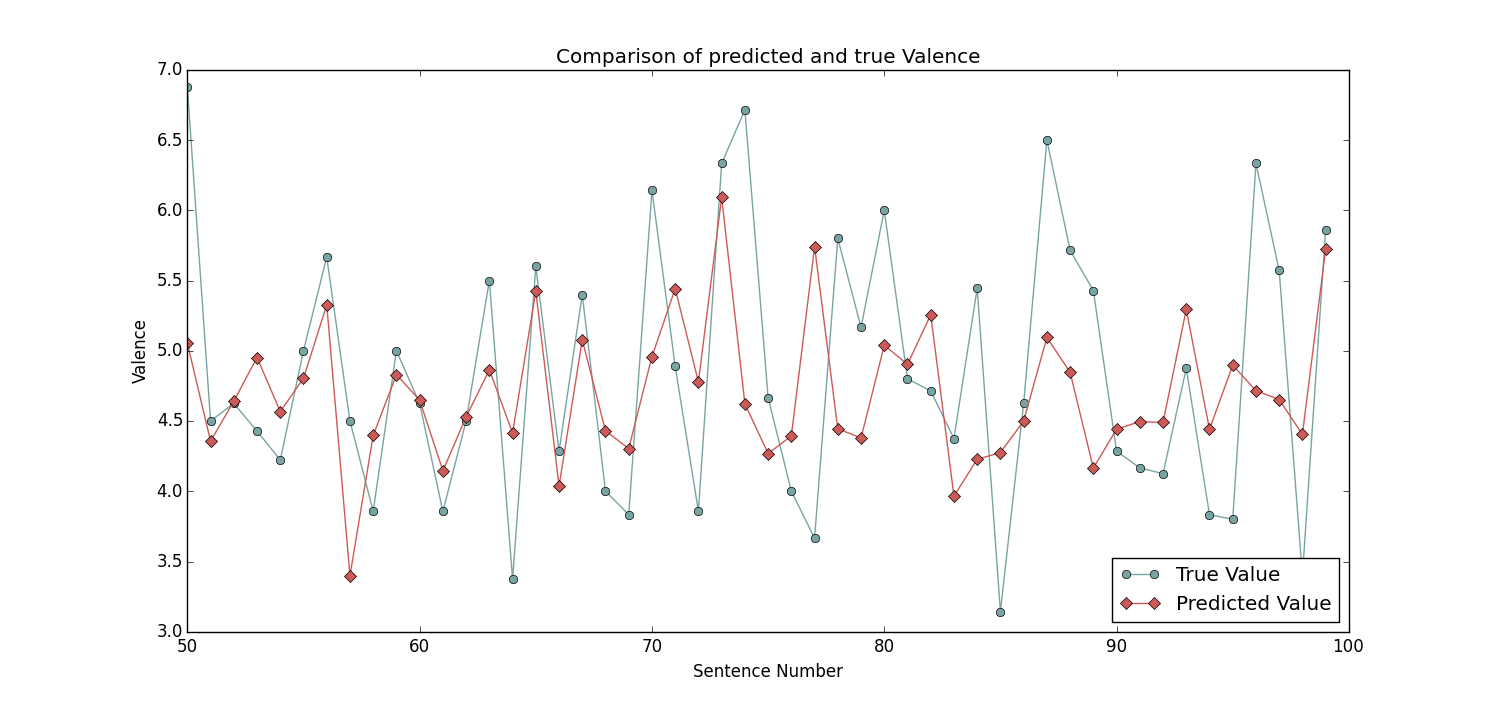
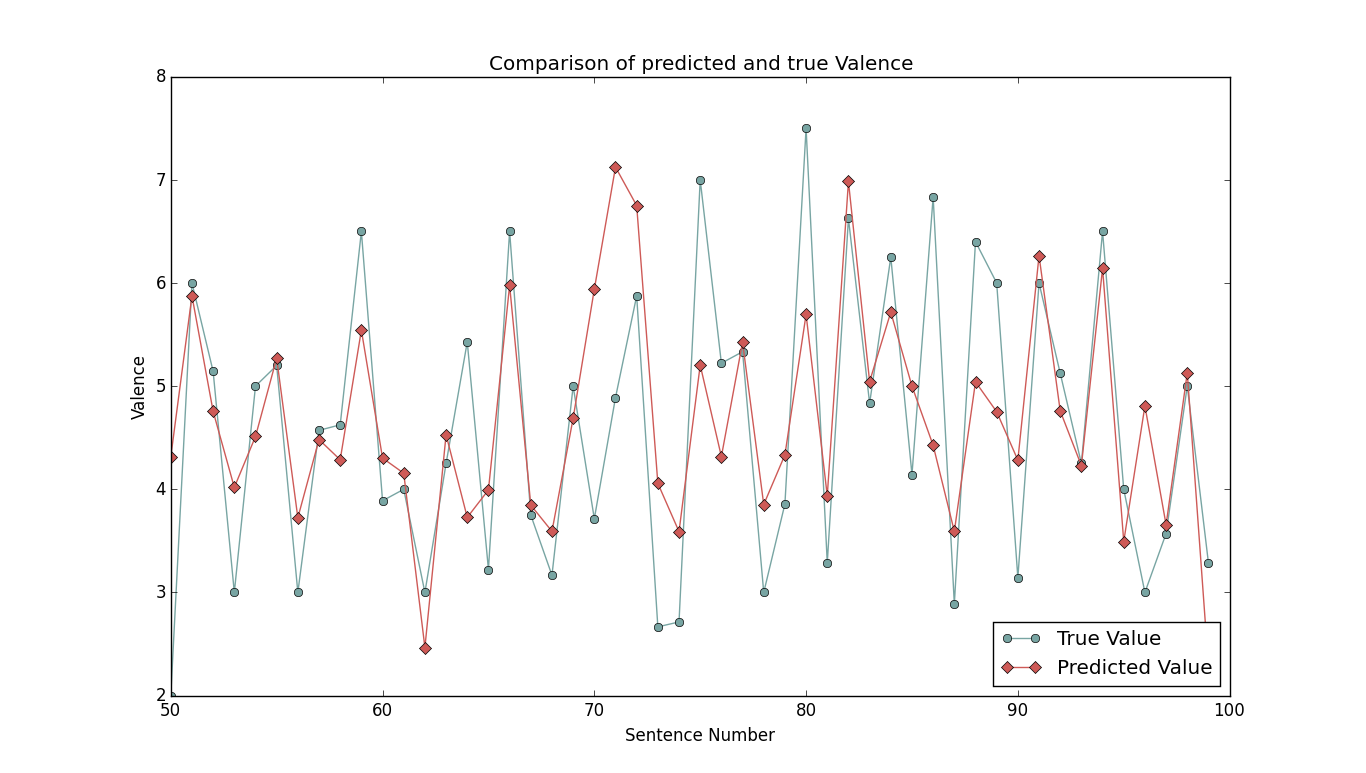
add arousal experiment result

diff --git a/cnn.py b/cnn.py
@@ -66,7 +66,7 @@ def imdb_cnn(W=None):
 
     # we start off with an efficient embedding layer which maps
     # our vocab indices into embedding_dims dimensions
-    model.add(Embedding(max_features, dims, input_length=maxlen, weights=None))
+    model.add(Embedding(max_features, dims, input_length=maxlen, weights=[W]))
     model.add(Dropout(0.5))
 
     # we add a Convolution1D, which will learn nb_filter
@@ -102,7 +102,7 @@ if __name__ == '__main__':
     maxlen = 100  # cut texts after this number of words (among top max_features most common words)
     batch_size = 8
 
-    option = 'Arousal'  # or arousal, Valence
+    option = 'Valence'  # or Arousal, Valence
     Y = np.array(valence) if option == 'Valence' else np.array(arousal)
 
     X_train, X_test, y_train, y_test = cross_validation.train_test_split(idx_data, Y, test_size=0.2,
@@ -147,8 +147,8 @@ if __name__ == '__main__':
     from visualize import draw_linear_regression
 
     X = range(50, 100)  # or range(len(y_test))
-    draw_linear_regression(X, np.array(y_test)[X], np.array(predict)[X], 'Sentence Number', 'Arousal',
-                           'Comparison of predicted and true Arousal')
+    draw_linear_regression(X, np.array(y_test)[X], np.array(predict)[X], 'Sentence Number', 'Valence',
+                           'Comparison of predicted and true Valence')
 
     from visualize import plot_keras
 

diff --git a/readme.MD b/readme.MD
@@ -29,14 +29,14 @@
  Hyper-parameters:
 
  ```python
- N_fm = 100, kernel_size = 3, maxlen = 100, hidden_dims = 100, dropout_p = 0.5, pool_length = pool_length=math.floor((maxlen-kernel_size+1)/2), batch_size = 8, nb_epoch=5
+ N_fm = 100, kernel_size = 3, maxlen = 100, hidden_dims = 100, dropout_p = 0.5, pool_length = pool_length=math.floor((maxlen-kernel_size+1)/2), batch_size = 8, max_nb_epoch=50
  ```
  Experiement result:
 
  |Metrics|MSE|MAE|pearson_r|R2|Spearman_r|rMSE|
  |----|----|----|----|----|----|----|
- |Valence|0.773|0.716|0.387|0.117|0.359|0.879|
- |Arousal|0.862|0.757|0.382|0.015|0.342|0.928|
+ |Valence|||||||
+ |Arousal|0.773|0.716|0.387|0.117|0.359|0.879|
 
 
  部分预测Valence预测图
@@ -45,14 +45,41 @@
 
  迭代过程
 
- |epoch number|loss|val_loss|
- |----|----|----|
- |1|1.1743|0.7978|
- |2|0.9886|0.7697|
- |3|0.8962|0.7139|
- |4|0.8822|0.7076|
- |5|0.8274|0.7158|
-
+ ```
+ 1607/1607 [==============================] - 8s - loss: 1.4043 - val_loss: 1.0504
+ Epoch 2/50
+ 1607/1607 [==============================] - 8s - loss: 1.1146 - val_loss: 0.9685
+ Epoch 3/50
+ 1607/1607 [==============================] - 8s - loss: 0.9957 - val_loss: 0.8977
+ Epoch 4/50
+ 1607/1607 [==============================] - 8s - loss: 0.9306 - val_loss: 0.8895
+ Epoch 5/50
+ 1607/1607 [==============================] - 8s - loss: 0.8729 - val_loss: 0.8917
+ Epoch 6/50
+ 1607/1607 [==============================] - 8s - loss: 0.8479 - val_loss: 0.8801
+ Epoch 7/50
+ 1607/1607 [==============================] - 8s - loss: 0.8106 - val_loss: 0.8977
+ Epoch 8/50
+ 1607/1607 [==============================] - 8s - loss: 0.7625 - val_loss: 0.9071
+ Epoch 9/50
+ 1607/1607 [==============================] - 8s - loss: 0.7742 - val_loss: 0.9147
+ Epoch 10/50
+ 1607/1607 [==============================] - 8s - loss: 0.7709 - val_loss: 0.9247
+ Epoch 11/50
+ 1607/1607 [==============================] - 8s - loss: 0.7370 - val_loss: 0.8991
+ Epoch 12/50
+ 1607/1607 [==============================] - 8s - loss: 0.7392 - val_loss: 0.9427
+ Epoch 13/50
+ 1607/1607 [==============================] - 8s - loss: 0.7008 - val_loss: 0.9027
+ Epoch 14/50
+ 1607/1607 [==============================] - 8s - loss: 0.6922 - val_loss: 0.9018
+ Epoch 15/50
+ 1607/1607 [==============================] - 8s - loss: 0.7096 - val_loss: 0.9228
+ Epoch 16/50
+ 1607/1607 [==============================] - 8s - loss: 0.7126 - val_loss: 0.8843
+ Epoch 17/50
+ 1607/1607 [==============================] - 8s - loss: 0.6550 - val_loss: 0.8833
+ ```
  迭代过程图
 
  <p align="center"> <img src="./images/valence_iter.png" height="300" /> </p>
